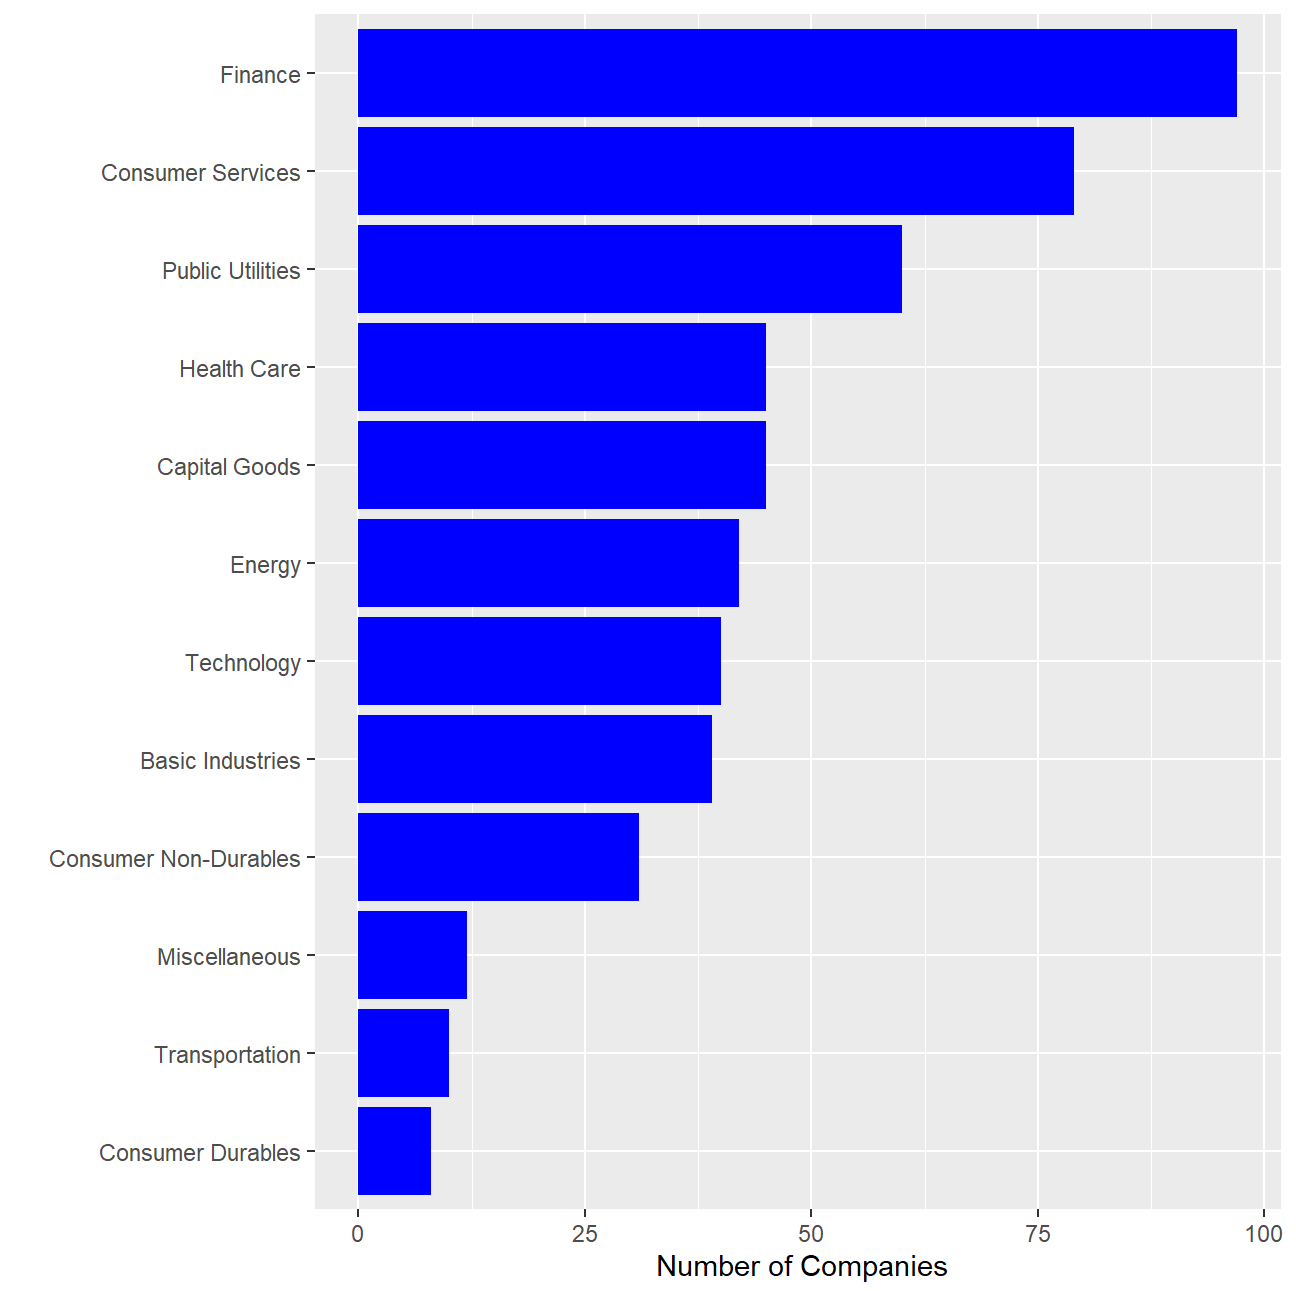
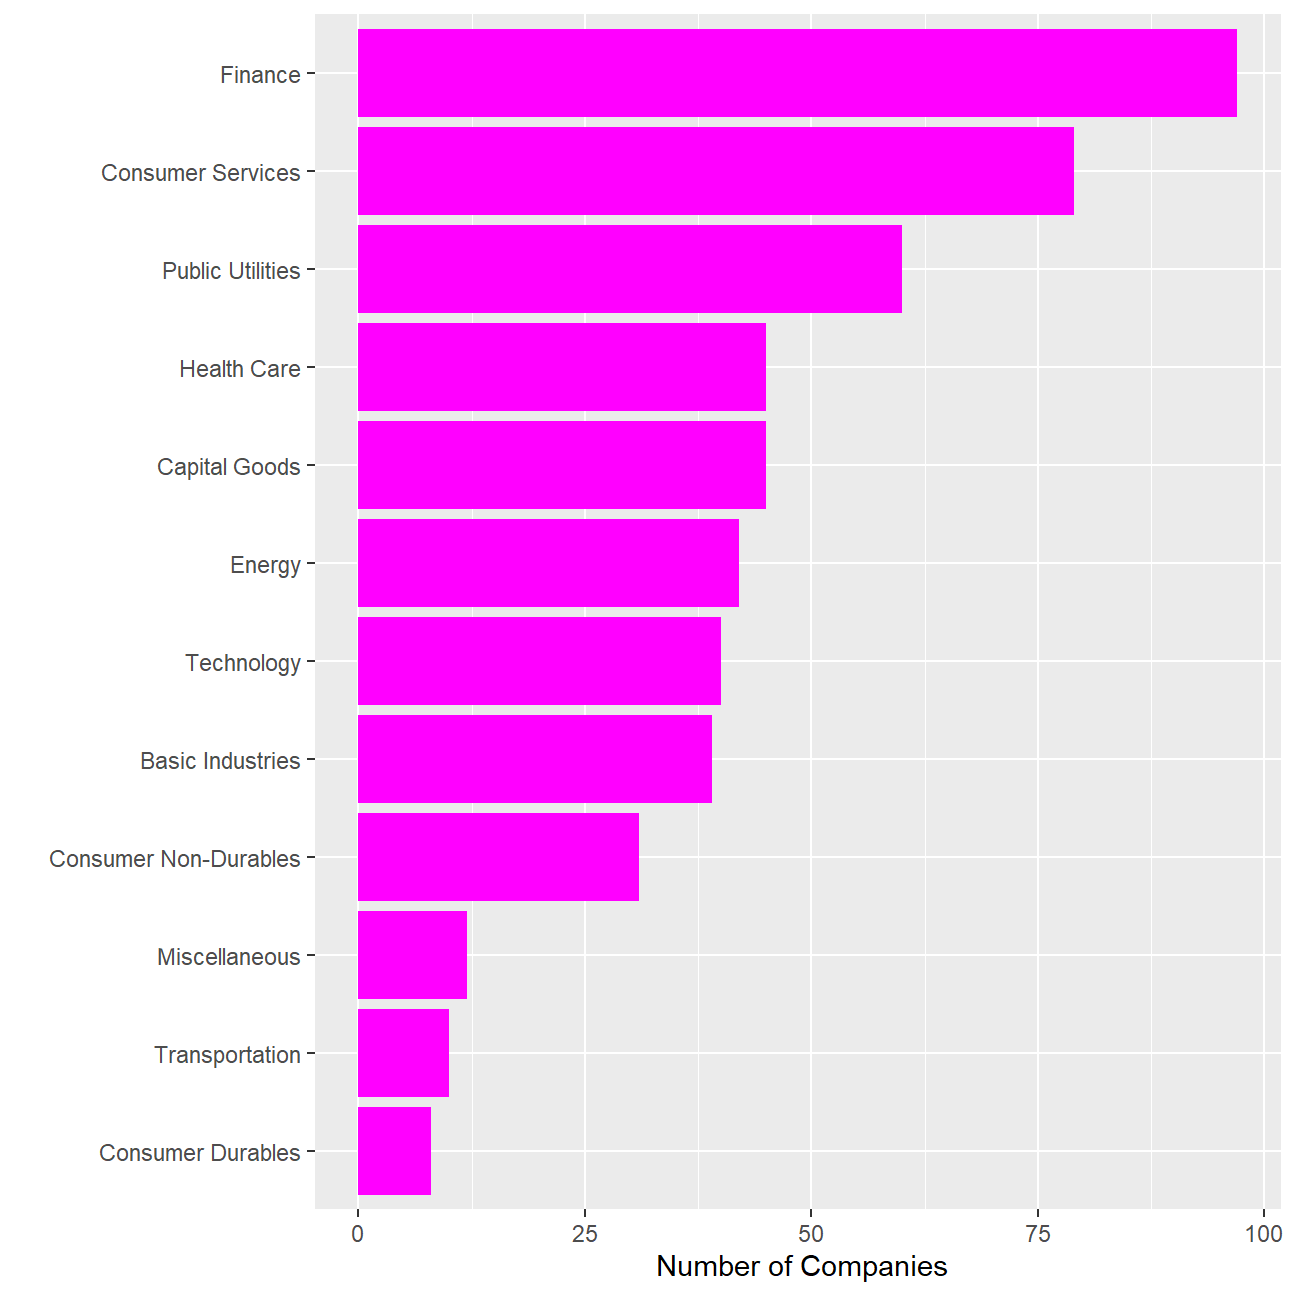
sks

Changed region(s): [[0.2778, 0.0, 0.9568, 0.9259]]

diff --git a/public/blogs/blog5/index.html b/public/blogs/blog5/index.html
@@ -40,7 +40,7 @@
 
             <!-- Header -->
     <header id="header" class="alt">
-        <a href="/" class="logo"><strong>Forty</strong> <span>By HTML5 Up</span></a>
+        <a href="/" class="logo"><strong>Portfolio</strong> <span>By HTML5 Up</span></a>
         <nav>
             <a href="#menu">Menu</a>
         </nav>
@@ -141,7 +141,7 @@ companies_per_sector</code></pre>
 ## 12 Consumer Durables                8</code></pre>
 <pre class="r"><code>companies_per_sector %&gt;%
   slice_max(No_companies, n=12)%&gt;%
-  ggplot(aes(x = No_companies  , y = reorder(sector, No_companies)))+ geom_col(fill=&quot;blue&quot;) + 
+  ggplot(aes(x = No_companies  , y = reorder(sector, No_companies)))+ geom_col(fill=&quot;magenta&quot;) + 
   labs( x = &quot; Number of Companies&quot;, y = &quot; &quot;)</code></pre>
 <p><img src="/blogs/blog5_files/figure-html/companies_per_sector-1.png" width="648" style="display: block; margin: auto;" /></p>
 <pre class="r"><code>Financials &lt;- nyse %&gt;% 

diff --git a/content/blogs/blog5.html b/content/blogs/blog5.html
@@ -69,7 +69,7 @@ companies_per_sector</code></pre>
 ## 12 Consumer Durables                8</code></pre>
 <pre class="r"><code>companies_per_sector %&gt;%
   slice_max(No_companies, n=12)%&gt;%
-  ggplot(aes(x = No_companies  , y = reorder(sector, No_companies)))+ geom_col(fill=&quot;blue&quot;) + 
+  ggplot(aes(x = No_companies  , y = reorder(sector, No_companies)))+ geom_col(fill=&quot;magenta&quot;) + 
   labs( x = &quot; Number of Companies&quot;, y = &quot; &quot;)</code></pre>
 <p><img src="/blogs/blog5_files/figure-html/companies_per_sector-1.png" width="648" style="display: block; margin: auto;" /></p>
 <pre class="r"><code>Financials &lt;- nyse %&gt;% 

diff --git a/public/blogs/bio1/index.html b/public/blogs/bio1/index.html
@@ -40,7 +40,7 @@
 
             <!-- Header -->
     <header id="header" class="alt">
-        <a href="/" class="logo"><strong>Forty</strong> <span>By HTML5 Up</span></a>
+        <a href="/" class="logo"><strong>Portfolio</strong> <span>By HTML5 Up</span></a>
         <nav>
             <a href="#menu">Menu</a>
         </nav>

diff --git a/public/blogs/blog1/index.html b/public/blogs/blog1/index.html
@@ -40,7 +40,7 @@
 
             <!-- Header -->
     <header id="header" class="alt">
-        <a href="/" class="logo"><strong>Forty</strong> <span>By HTML5 Up</span></a>
+        <a href="/" class="logo"><strong>Portfolio</strong> <span>By HTML5 Up</span></a>
         <nav>
             <a href="#menu">Menu</a>
         </nav>

diff --git a/public/blogs/blog4/index.html b/public/blogs/blog4/index.html
@@ -40,7 +40,7 @@
 
             <!-- Header -->
     <header id="header" class="alt">
-        <a href="/" class="logo"><strong>Forty</strong> <span>By HTML5 Up</span></a>
+        <a href="/" class="logo"><strong>Portfolio</strong> <span>By HTML5 Up</span></a>
         <nav>
             <a href="#menu">Menu</a>
         </nav>

diff --git a/public/blogs/blog6/index.html b/public/blogs/blog6/index.html
@@ -40,7 +40,7 @@
 
             <!-- Header -->
     <header id="header" class="alt">
-        <a href="/" class="logo"><strong>Forty</strong> <span>By HTML5 Up</span></a>
+        <a href="/" class="logo"><strong>Portfolio</strong> <span>By HTML5 Up</span></a>
         <nav>
             <a href="#menu">Menu</a>
         </nav>

diff --git a/public/blogs/magna/index.html b/public/blogs/magna/index.html
@@ -40,7 +40,7 @@
 
             <!-- Header -->
     <header id="header" class="alt">
-        <a href="/" class="logo"><strong>Forty</strong> <span>By HTML5 Up</span></a>
+        <a href="/" class="logo"><strong>Portfolio</strong> <span>By HTML5 Up</span></a>
         <nav>
             <a href="#menu">Menu</a>
         </nav>

diff --git a/public/blogs/tempus/index.html b/public/blogs/tempus/index.html
@@ -40,7 +40,7 @@
 
             <!-- Header -->
     <header id="header" class="alt">
-        <a href="/" class="logo"><strong>Forty</strong> <span>By HTML5 Up</span></a>
+        <a href="/" class="logo"><strong>Portfolio</strong> <span>By HTML5 Up</span></a>
         <nav>
             <a href="#menu">Menu</a>
         </nav>

diff --git a/public/post/2015-07-23-r-rmarkdown/index.html b/public/post/2015-07-23-r-rmarkdown/index.html
@@ -40,7 +40,7 @@
 
             <!-- Header -->
     <header id="header" class="alt">
-        <a href="/" class="logo"><strong>Forty</strong> <span>By HTML5 Up</span></a>
+        <a href="/" class="logo"><strong>Portfolio</strong> <span>By HTML5 Up</span></a>
         <nav>
             <a href="#menu">Menu</a>
         </nav>

diff --git a/public/blogs/index.html b/public/blogs/index.html
@@ -40,7 +40,7 @@
 
         <!-- Header -->
     <header id="header" class="alt">
-        <a href="/" class="logo"><strong>Forty</strong> <span>By HTML5 Up</span></a>
+        <a href="/" class="logo"><strong>Portfolio</strong> <span>By HTML5 Up</span></a>
         <nav>
             <a href="#menu">Menu</a>
         </nav>

diff --git a/public/categories/index.html b/public/categories/index.html
@@ -40,7 +40,7 @@
 
         <!-- Header -->
     <header id="header" class="alt">
-        <a href="/" class="logo"><strong>Forty</strong> <span>By HTML5 Up</span></a>
+        <a href="/" class="logo"><strong>Portfolio</strong> <span>By HTML5 Up</span></a>
         <nav>
             <a href="#menu">Menu</a>
         </nav>

diff --git a/public/categories/r/index.html b/public/categories/r/index.html
@@ -40,7 +40,7 @@
 
         <!-- Header -->
     <header id="header" class="alt">
-        <a href="/" class="logo"><strong>Forty</strong> <span>By HTML5 Up</span></a>
+        <a href="/" class="logo"><strong>Portfolio</strong> <span>By HTML5 Up</span></a>
         <nav>
             <a href="#menu">Menu</a>
         </nav>
